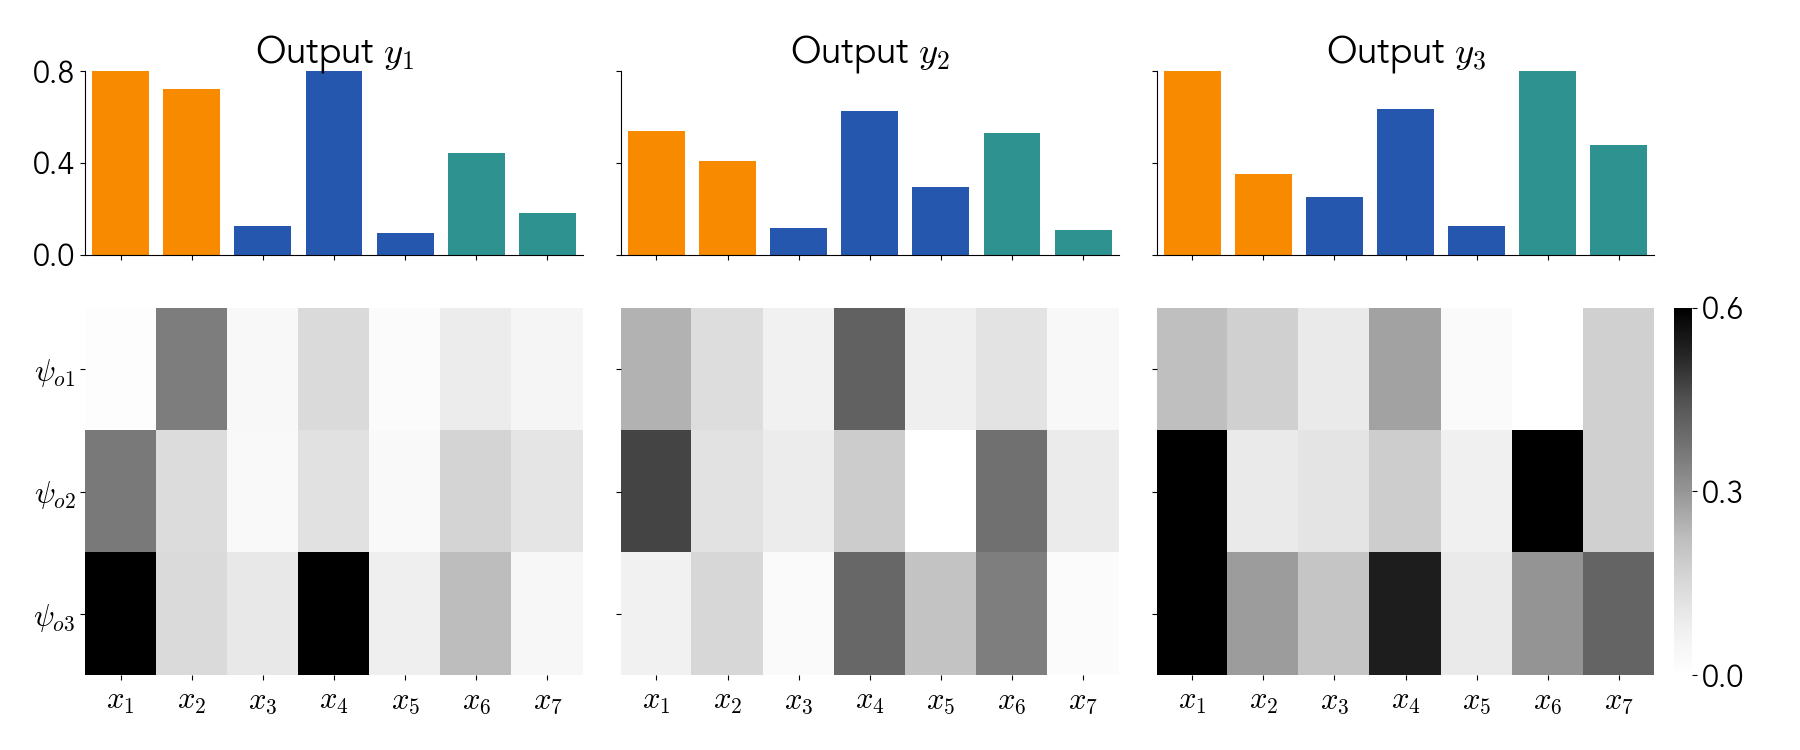
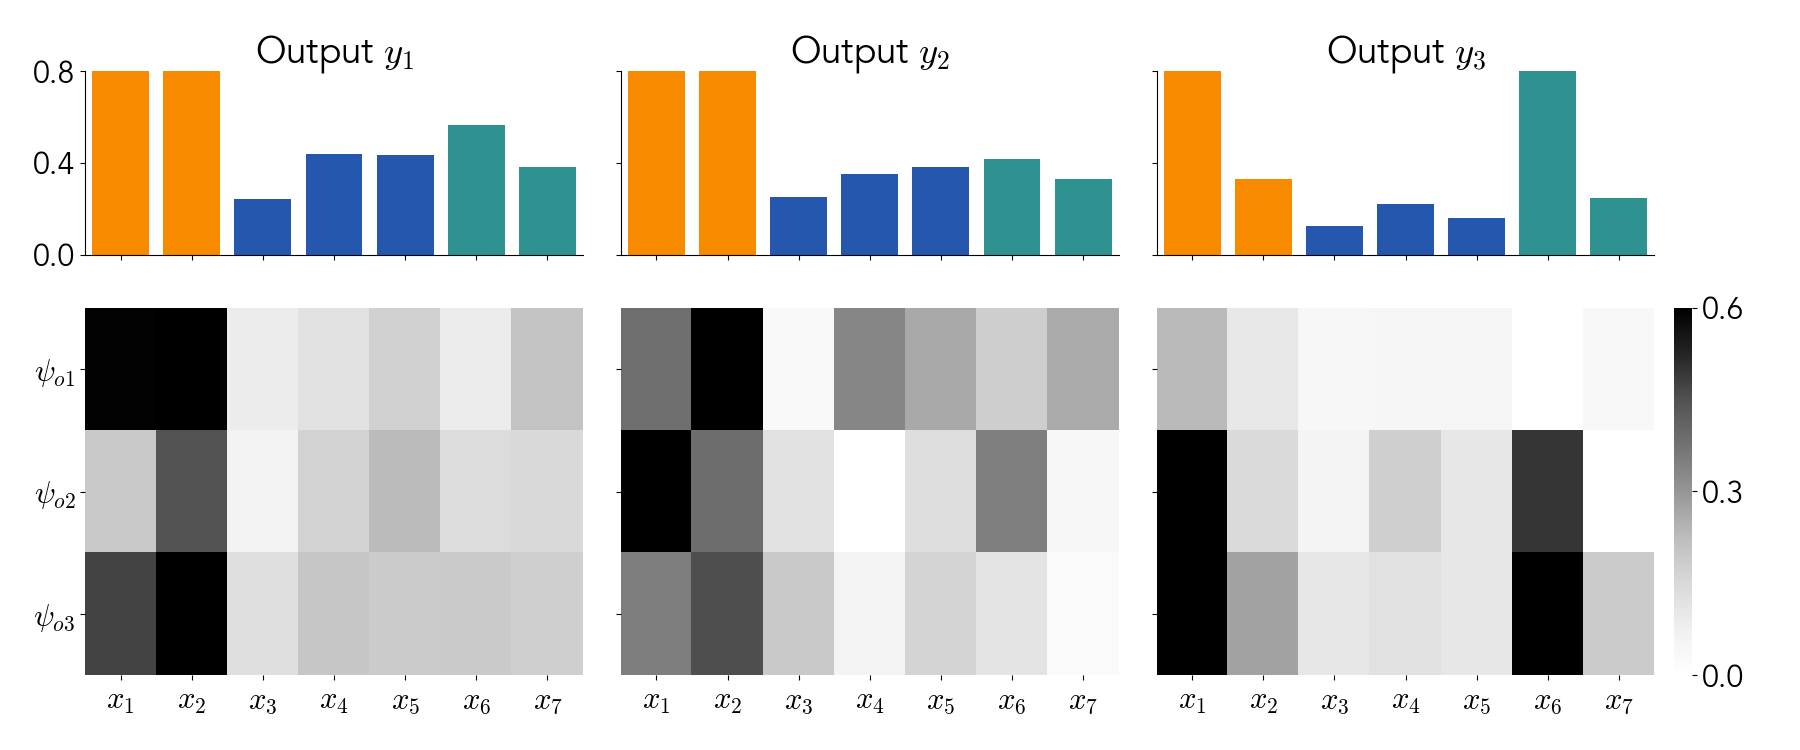
next gt mt runs

diff --git a/Analysis1_WhatDoesEachOutputCapture.py b/Analysis1_WhatDoesEachOutputCapture.py
@@ -91,11 +91,11 @@ SYSTEM_NO =15 # Between [2,4,6]
 #     print('======================')
 #     for result_name in dict_results.keys():
 #         print(result_name + ' : ' + str(dict_results[result_name]))
-#     RUN_NO = dict_results['run_no']
+#     RUN_NO = dict_results['run_no']======
 # except:
 #     print('INFO: The Result for the current system under consideration does NOT EXIST')
-
-RUN_NO = 7
+#
+RUN_NO = 32
 
 # Load the dataset
 simulation_data_file = 'System_' + str(SYSTEM_NO) + '/System_' + str(SYSTEM_NO) + '_SimulatedData.pickle'
@@ -243,7 +243,7 @@ for i in range(len(ls_nPC)):
     YT_pred_scaled_intermediate[:,ls_output_index] = YT_pred_scaled
     YT_pred = dict_Scaler['YT'].inverse_transform(YT_pred_scaled_intermediate)[:,ls_output_index]
     ls_output_accuracy.append(r2_score(YT_actual, YT_pred, multioutput='uniform_average'))
-    print('# states : ', ls_nPC[i], ' r2 :', ls_output_accuracy[i])
+    # print('# states : ', ls_nPC[i], ' r2 :', ls_output_accuracy[i])
 nPC_opt = ls_nPC[np.where(np.array(ls_output_accuracy)>psi_o_tolerence)[0][0]]
 print('The optimal number of observed states is : ', nPC_opt)
 
@@ -303,7 +303,7 @@ plt.tight_layout()
 f.show()
 
 
-##
+#========================================================================================================================
 
 # TODO - the observability stuff same as in the first example - one sensitivity plot for each output
 all_ls_output_index = [0,1,2]
@@ -363,7 +363,7 @@ for output_index in all_ls_output_index:
         YT_pred_scaled_intermediate[:,ls_output_index] = YT_pred_scaled
         YT_pred = dict_Scaler['YT'].inverse_transform(YT_pred_scaled_intermediate)[:,ls_output_index]
         ls_output_accuracy.append(r2_score(YT_actual, YT_pred, multioutput='uniform_average'))
-        print('# states : ', ls_nPC[i], ' r2 :', ls_output_accuracy[i])
+        # print('# states : ', ls_nPC[i], ' r2 :', ls_output_accuracy[i])
     nPC_opt = ls_nPC[np.where(np.array(ls_output_accuracy)>psi_o_tolerence)[0][0]]
     print('The optimal number of observed states is : ', nPC_opt)
 
@@ -421,7 +421,7 @@ ax[1,-1].axis('off')
 # plt.tight_layout(rect=[0, 0, .6, 1])
 f.show()
 f.savefig('heyo.png')
-##
+#
 
 # Close the tensorflow environment
 tf.reset_default_graph()

diff --git a/deepDMD.py b/deepDMD.py
@@ -25,7 +25,7 @@ RUN_NUMBER = 1
 
 #  Deep Learning Optimization Parameters ##
 
-activation_flag = 3 # 1 - RELU      2 -ELU     3 - tanh
+activation_flag = 2 # 1 - RELU      2 -ELU     3 - tanh
 
 DISPLAY_SAMPLE_RATE_EPOCH = 1000
 TRAIN_PERCENT = 85.71429
@@ -55,9 +55,9 @@ dict_training_params = {'step_size_val': 0.1, 'train_error_threshold': float(1e-
 ls_dict_training_params.append(dict_training_params)
 dict_training_params = {'step_size_val': 0.08, 'train_error_threshold': float(1e-8), 'valid_error_threshold': float(1e-8), 'max_epochs': 50000, 'batch_size': batch_size}
 ls_dict_training_params.append(dict_training_params)
-dict_training_params = {'step_size_val': 0.05, 'train_error_threshold': float(1e-10), 'valid_error_threshold': float(1e-8), 'max_epochs': 20000, 'batch_size': batch_size}
+dict_training_params = {'step_size_val': 0.05, 'train_error_threshold': float(1e-10), 'valid_error_threshold': float(1e-8), 'max_epochs': 50000, 'batch_size': batch_size}
 ls_dict_training_params.append(dict_training_params)
-dict_training_params = {'step_size_val': 0.01, 'train_error_threshold': float(1e-10), 'valid_error_threshold': float(1e-8), 'max_epochs': 20000, 'batch_size': batch_size}
+dict_training_params = {'step_size_val': 0.01, 'train_error_threshold': float(1e-10), 'valid_error_threshold': float(1e-8), 'max_epochs': 50000, 'batch_size': batch_size}
 ls_dict_training_params.append(dict_training_params)
 dict_training_params = {'step_size_val': 0.005, 'train_error_threshold': float(1e-10), 'valid_error_threshold': float(1e-8), 'max_epochs': 50000, 'batch_size': batch_size}
 ls_dict_training_params.append(dict_training_params)

diff --git a/2_sim_sys.py b/2_sim_sys.py
@@ -384,8 +384,8 @@ save_system(ls_data, dict_measurement_info = dict_measurement_info_i, SYSTEM_NO 
 N_NODES_PER_OBSERVABLE = 2
 
 dict_hp={}
-dict_hp['ls_dict_size'] = [4,6,8,10] # [15,20,25]
-dict_hp['ls_nn_layers'] = [3,4,5]
+dict_hp['ls_dict_size'] = [8,10,12,15,18,21] # [15,20,25]
+dict_hp['ls_nn_layers'] = [4,5]
 dict_hp['System_no'] = [15]
 # dict_hp['System_no'] = dict_hp['System_no'] + [21,22,23]
 # dict_hp['System_no'] = dict_hp['System_no'] + [24,25]
@@ -398,9 +398,9 @@ dict_hp['System_no'] = [15]
 # dict_hp['System_no'] = dict_hp['System_no'] + list(range(61,70))
 # dict_hp['System_no'] = dict_hp['System_no'] + list(range(71,80))
 
-system_running = 'goldentensor'
+# system_running = 'goldentensor'
 # system_running = 'optictensor'
-# system_running = 'microtensor'
+system_running = 'microtensor'
 # system_running = 'quantensor'
 
 file = open('/Users/shara/Desktop/TS_AR_IFFL/' + system_running + '_run.sh','w')
